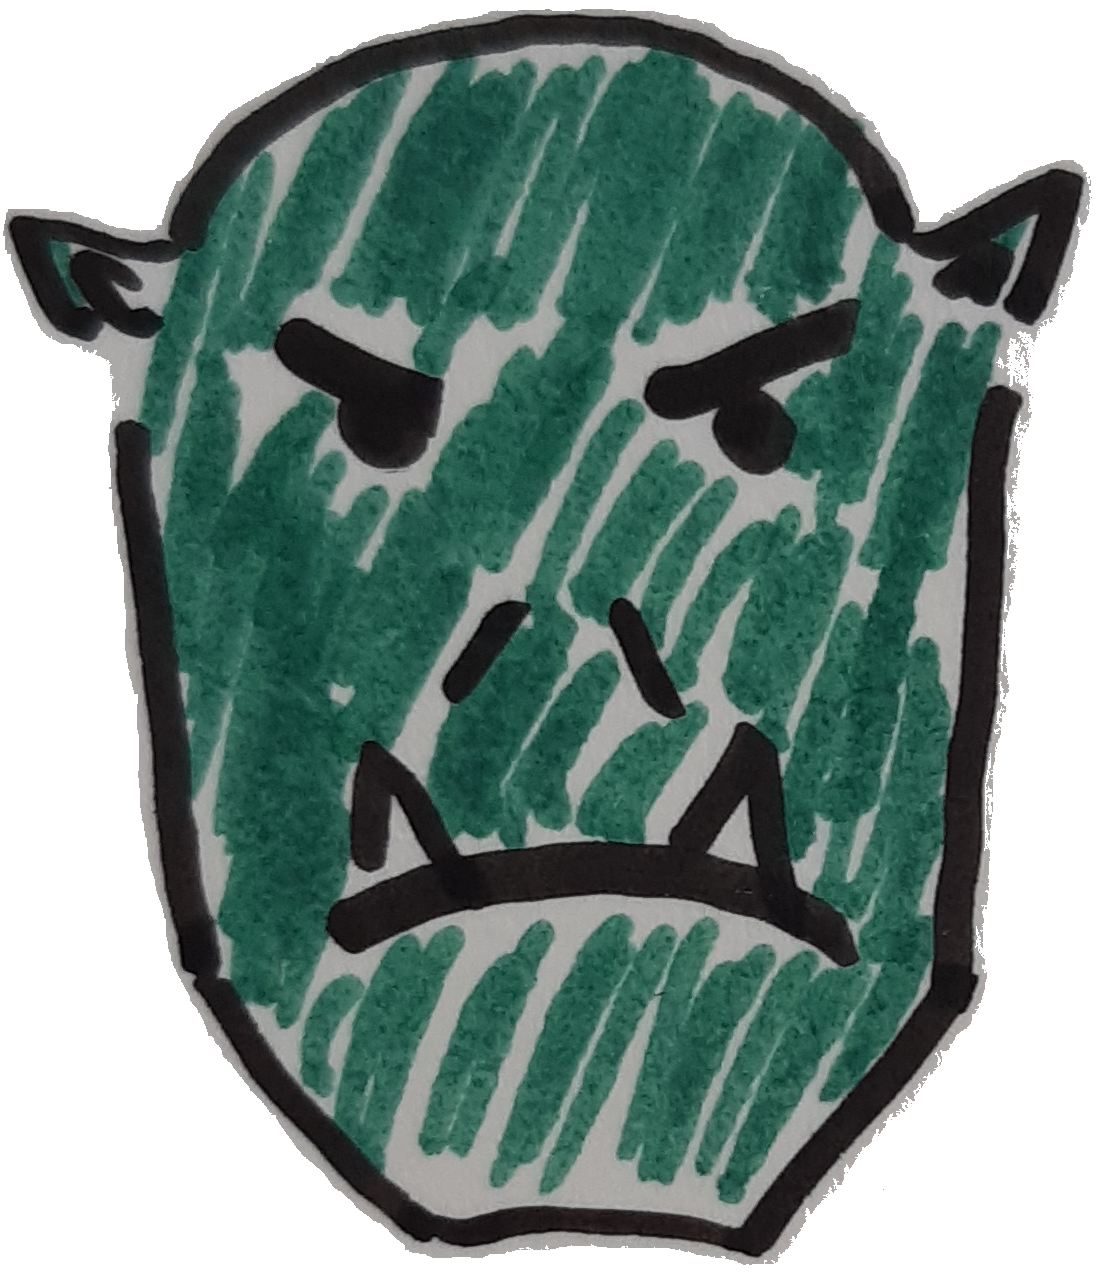
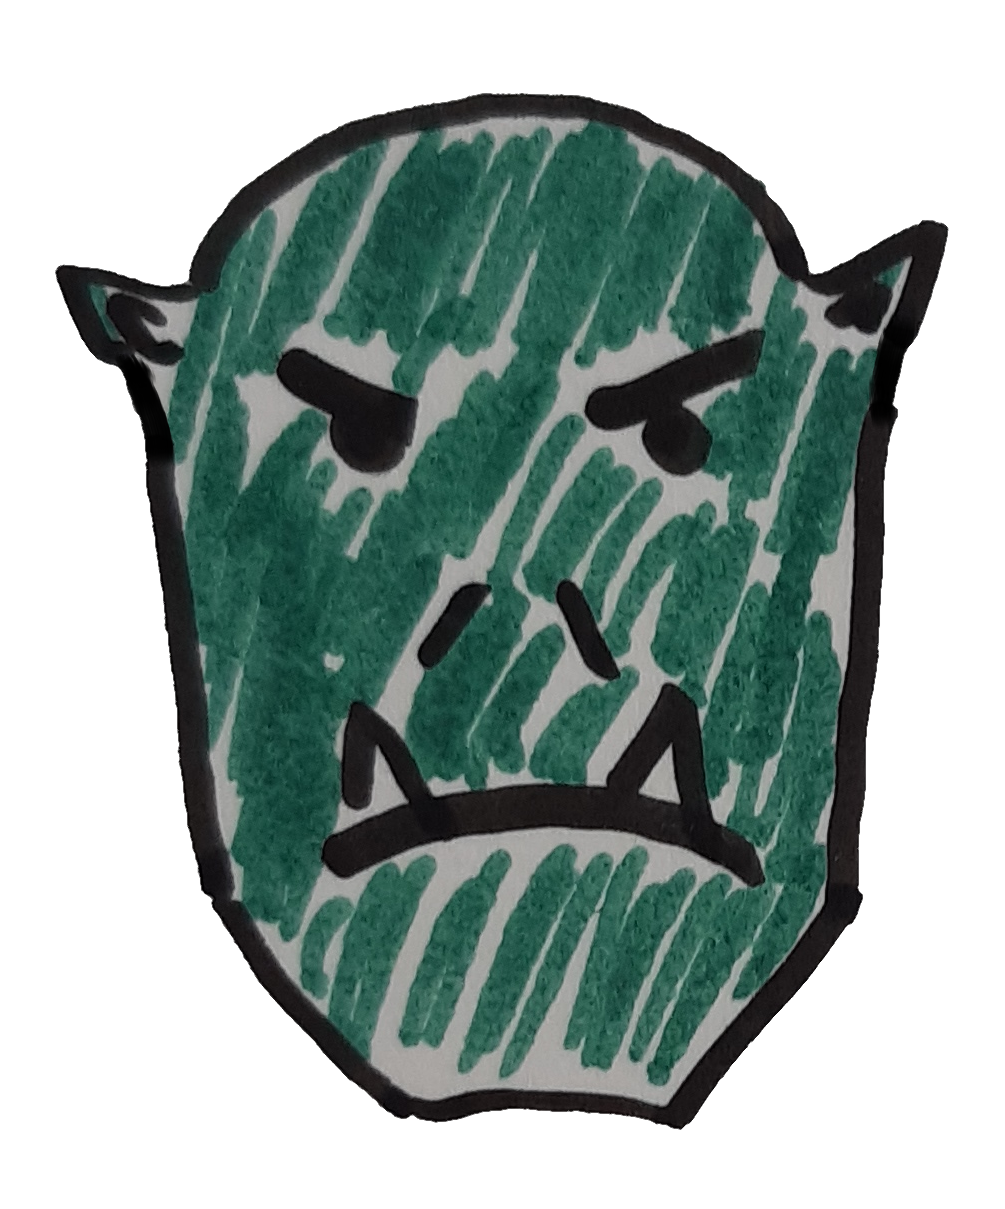
Image size scalar for mobs

diff --git a/objects.py b/objects.py
@@ -45,27 +45,34 @@ class Monster(pg.sprite.Sprite):
         super().__init__(groups)
         path = './ab_images/monster/' + type + '.png'
         mob = pg.image.load(path)
-        height = mob.get_height()
-        width = mob.get_width()
+        HEIGHT = mob.get_height()
+        WIDTH = mob.get_width()
         stats = Stats()
         self.xpos = pos[0]
         self.ypos = pos[1]
-        self.image = pg.transform.scale(mob, ((width / 10), (height / 10)))
-        self.rect = self.image.get_rect(topleft = (self.xpos, self.ypos))
         self.type = type
         self.player = False
         self.animation = False
         self.attacked = False
         self.data = stats.monsters[type]
         self.data = {key: int(value) if value.isdigit() else value for key, value in self.data.items()}
-        self.speed = self.data["speed"]
-        self.damage = self.data["damage"]
-        self.exp = self.data["exp"]
-        self.health = self.data["health"]
-        self.max_health = self.data["max_health"]
+        #Decreases code readability?
+        for name, value in self.data.items():
+            setattr(self, name, value)
+        #self.speed = self.data["speed"]
+        #self.damage = self.data["damage"]
+        #self.exp = self.data["exp"]
+        #self.health = self.data["health"]
+        #self.max_health = self.data["max_health"]
+        #self.health = min(self.health, self.max_health)
+        #self.menace = self.data["menace"]
+        #self.armor = self.data["armor"]
+        #SIZE_SCALAR = self.data["size_scalar"]
         self.health = min(self.health, self.max_health)
-        self.menace = self.data["menace"]
-        self.armor = self.data["armor"]
+        SCALAR_W = WIDTH / self.size_scalar
+        SCALAR_H = HEIGHT / self.size_scalar
+        self.image = pg.transform.scale(mob, (SCALAR_W, SCALAR_H))
+        self.rect = self.image.get_rect(topleft = (self.xpos, self.ypos))
         #self.abilities = ["regenerating": True/False]
 
 class Adventure(pg.sprite.Sprite):
@@ -99,7 +106,7 @@ class Location(pg.sprite.Sprite):
         self.image = pg.transform.scale(scenery, ((self.width / 5), (self.height / 5)))
         self.rect = self.image.get_rect(center = (self.xpos, self.ypos))
         self.name = name
-        self.content = [content]
+        self.content = content
         self.treasure = []
         #self.terrain
         #self.modifier

diff --git a/path.py b/path.py
@@ -137,7 +137,6 @@ class Path(States):
         }   
         for name, data in self.arrows.items():
             setattr(data['origin'], name, Arrow(data['coords'], data['angle'], self.path_sprites, data['destination']))
-        
     def get_event(self, event):
         if event.type == pg.KEYDOWN:
             if event.key == pg.K_ESCAPE:
@@ -151,7 +150,8 @@ class Path(States):
                     if location == self.city:
                         pass
                     else:
-                        States.room_monsters = content
+                        monsters = content.split(" ")
+                        States.room_monsters = monsters
                         self.current_location = location
                         self.done = True
 
